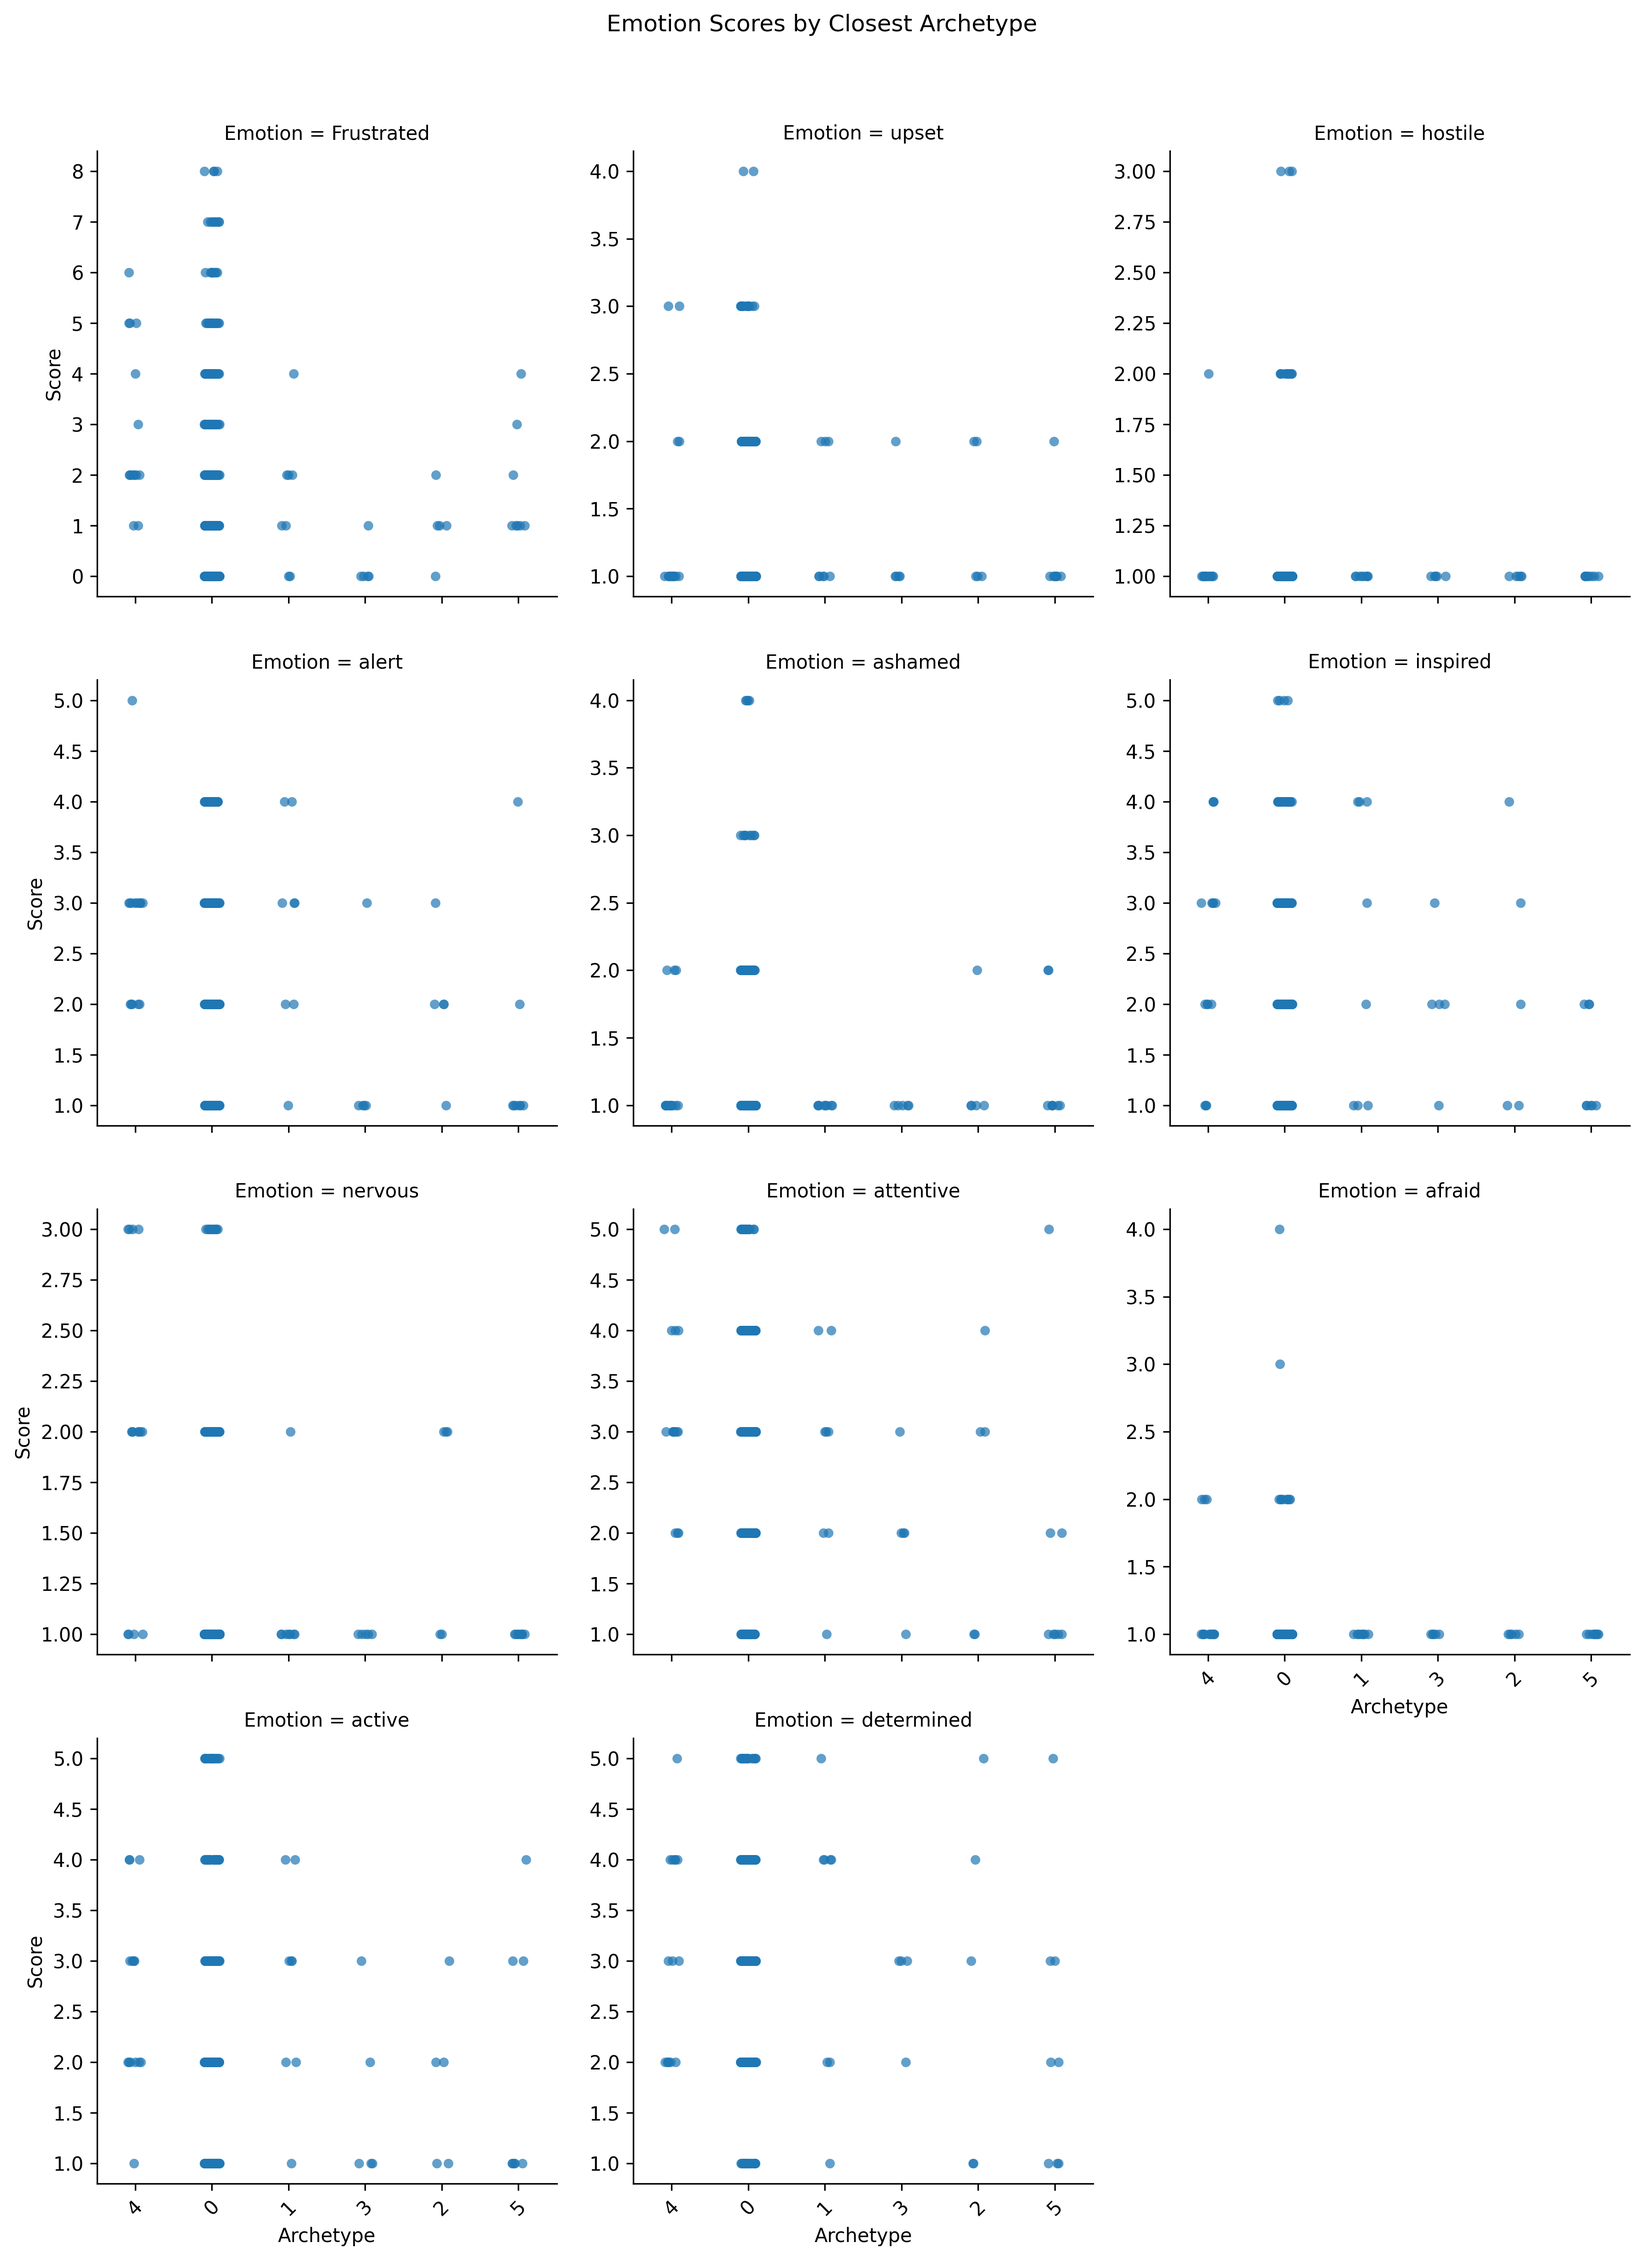
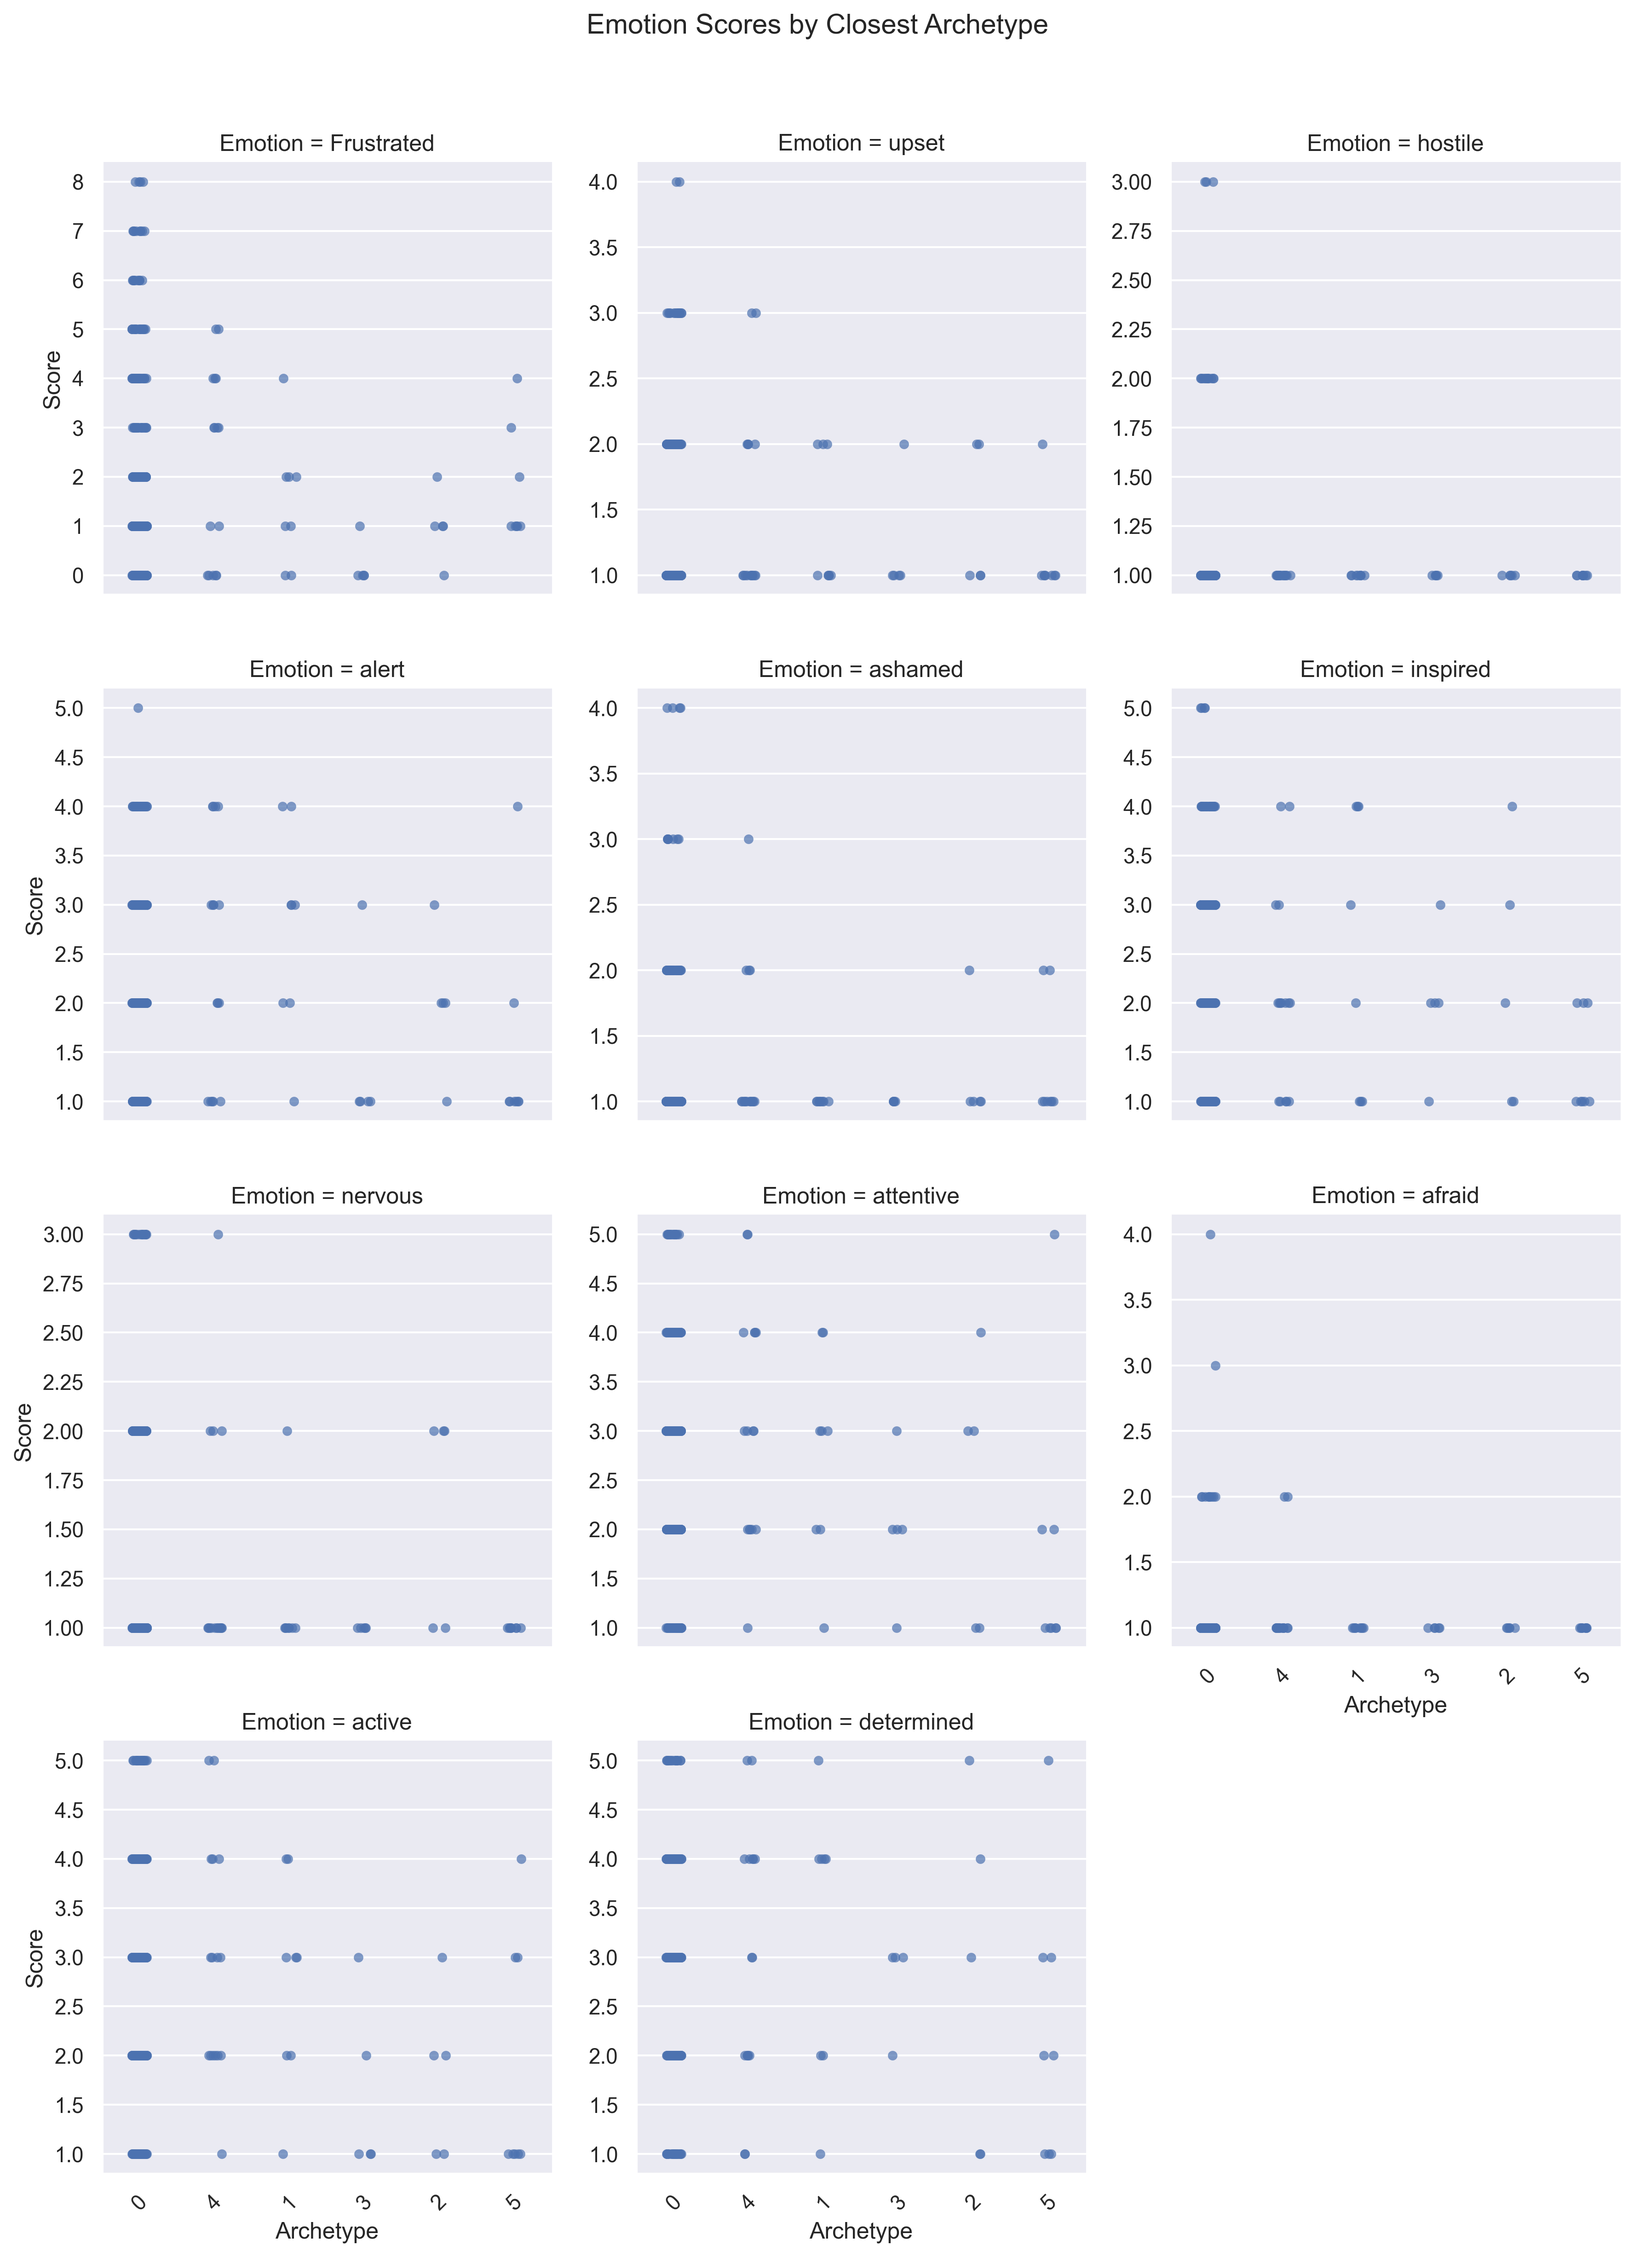
Changes for better presentation

diff --git a/src/case2/decomposition/sc.py b/src/case2/decomposition/sc.py
@@ -6,11 +6,14 @@ from scipy.stats import kurtosis
 from typing import List, Tuple, Optional
 from sklearn.preprocessing import StandardScaler
 from sklearn.metrics import explained_variance_score
+from sklearn.model_selection import train_test_split
 from sklearn.model_selection import KFold
 import warnings
 from pathlib import Path
 import py_pcha
 from matplotlib import cm, lines
+import seaborn as sns
+sns.set_theme(style="darkgrid")
 
 # Directory to save figures
 FIGURE_DIR = Path(__file__).expanduser(
@@ -40,7 +43,7 @@ def compute_sc(
     scaler = StandardScaler()
     X_scaled = scaler.fit_transform(X)
     model = DictionaryLearning(n_components=n_components, alpha=lambda_, transform_alpha=lambda_,
-                               max_iter=1000, transform_max_iter=1000, fit_algorithm='cd', transform_algorithm='lasso_cd')
+                               max_iter=1500, transform_max_iter=1500, fit_algorithm='cd', transform_algorithm='lasso_cd')
     H_SC = model.fit_transform(X_scaled)
     return scaler, model, H_SC
 
@@ -227,55 +230,61 @@ def run_sc_pipeline(
     Xc = preprocess_for_sc(X)
     X_np = Xc.values
     # 2) Evaluate explained variance metric
-    # evs = []
-    # k_list = [5, 10, 15, 20, 25, 30, 35, 38, 40, 42, 45, 50]
-    # alpha = 0.0001
-    # for k in k_list:
-    #     scaler, model = compute_sc(X_np, k, alpha)
-    #     X_scaled = scaler.transform(X_np)
-    #     X_transformed = model.transform(X_scaled)
-    #     X_val_recon = X_transformed @ model.components_
-    #     ev = explained_variance_score(X_scaled, X_val_recon)
-    #     evs.append(ev)
-    #     print(f"Evaluated k={k}, alpha={alpha}, EV={ev:.8f}")
 
-    # 3) Plot explained variance
+    # Grid of hyperparameters
+    alpha_list = [1e-4, 1e-3, 1e-2, 1e-1, 1]
+    k_list = [5, 10, 20, 30, 40, 50]
+    results = []
 
-    # Plot
-    # fig, ax = plt.subplots()
-    # ax.plot(k_list, evs, marker='o', label='Explained Variance')
+    # Split for validation
+    X_train, X_val = train_test_split(X_np, test_size=0.2, random_state=42)
 
-    # # Determine chosen k as the smallest k with maximal explained variance
-    # print(evs)
-    # max_ev = 1.0
-    # eps = 0.0005
-    # chosen = None
-    # for k_val, ev_val in zip(k_list, evs):
-    #     if ev_val >= max_ev - eps:
-    #         chosen = k_val
-    #         break
-    # print(f"Chosen k: {chosen}")
-    # if chosen is None:
-    #     raise ValueError("No suitable k found.")
+    for alpha in alpha_list:
+        for k in k_list:
+            scaler, model, _ = compute_sc(X_train, k, alpha)
+            X_val_scaled = scaler.transform(X_val)
 
-    # ax.axvline(chosen, color='grey', linestyle='--',
-    #            label=f'Selected k={chosen}')
-    # ax.set_xlabel('Number of Components (k)')
-    # ax.set_ylabel('Explained Variance')
-    # ax.set_title('SC Explained Variance vs Number of Components')
-    # ax.legend()
-    # fig.tight_layout()
-    # save_path = FIGURE_DIR / 'sc_nb_features_explained_variance.png'
-    # fig.savefig(save_path)
-    # plt.close(fig)
+            X_transformed = model.transform(X_val_scaled)
+            X_recon = X_transformed @ model.components_
+            ev = explained_variance_score(X_val_scaled, X_recon)
+            results.append((k, alpha, ev))
+            print(f"Alpha={alpha}, k={k}, EV={ev:.6f}")
 
-    # # Print selected k
-    # print(f"Selected k = {chosen}")
+    # Format results
+    results_df = pd.DataFrame(
+        results, columns=['noc', 'lambda', 'EV'])
+    results_df['lambda'] = results_df['lambda'].astype(float)
+    results_df['noc'] = results_df['noc'].astype(int)
+    results_df['EV'] = results_df['EV'].astype(float)
 
-    chosen = 40
-    alpha = 0.006
+    # Select best: smallest k, largest alpha that achieves near-max EV
+    eps = 1e-3
+    max_ev = results_df['EV'].max()
+    valid = results_df[results_df['EV'] >= max_ev - eps]
+    best_row = valid.sort_values(
+        ['noc', 'lambda'], ascending=[True, False]).iloc[0]
+    print(
+        f"Selected alpha={best_row['lambda']}, k={best_row.noc}, EV={best_row.EV:.5f}")
+
+    # Optional: Plot heatmap
+    fig, ax = plt.subplots()
+    heatmap_data = results_df.pivot(index='lambda', columns='noc', values='EV')
+    sns.heatmap(heatmap_data, annot=True, fmt=".3f", cmap='viridis')
+    # Mark selected point
+    best_k = int(best_row.noc)
+    best_alpha = float(best_row['lambda'])
+    ax.plot(
+        k_list.index(best_k) + 0.5,  # x-coord (column index + 0.5 for center)
+        alpha_list.index(best_alpha) + 0.5,  # y-coord
+        marker='o', color='red', markersize=10, markeredgecolor='black'
+    )
+    ax.set_title("Sparse Coding EV with lambda and number of components (noc)")
+    plt.tight_layout()
+    plt.savefig(FIGURE_DIR / "sc_elementwise_cv.png", dpi=300)
+    plt.close()
+
     # 4) Fit final SC and visualize mixing matrix
-    scaler, model, H_SC = compute_sc(X_np, chosen, alpha)
+    scaler, model, H_SC = compute_sc(X_np, best_k, best_alpha)
     # 5) Plot mixing matrix
     plot_sc_h_elements(H_SC.T, alpha)
 

diff --git a/src/case2/decomposition/aa.py b/src/case2/decomposition/aa.py
@@ -10,6 +10,7 @@ import warnings
 from pathlib import Path
 import py_pcha
 import seaborn as sns
+sns.set_theme(style="darkgrid")
 
 # Directory to save figures
 FIGURE_DIR = Path(__file__).expanduser(
@@ -150,7 +151,7 @@ def plot_archetypes(
 def run_aa_pipeline(
     X: pd.DataFrame,
     y: pd.DataFrame,
-    k_list: List[int] = list(range(2, 16)),
+    k_list: List[int] = list(range(2, 21)),
     select_k: Optional[int] = None
 ) -> List[float]:
     """
